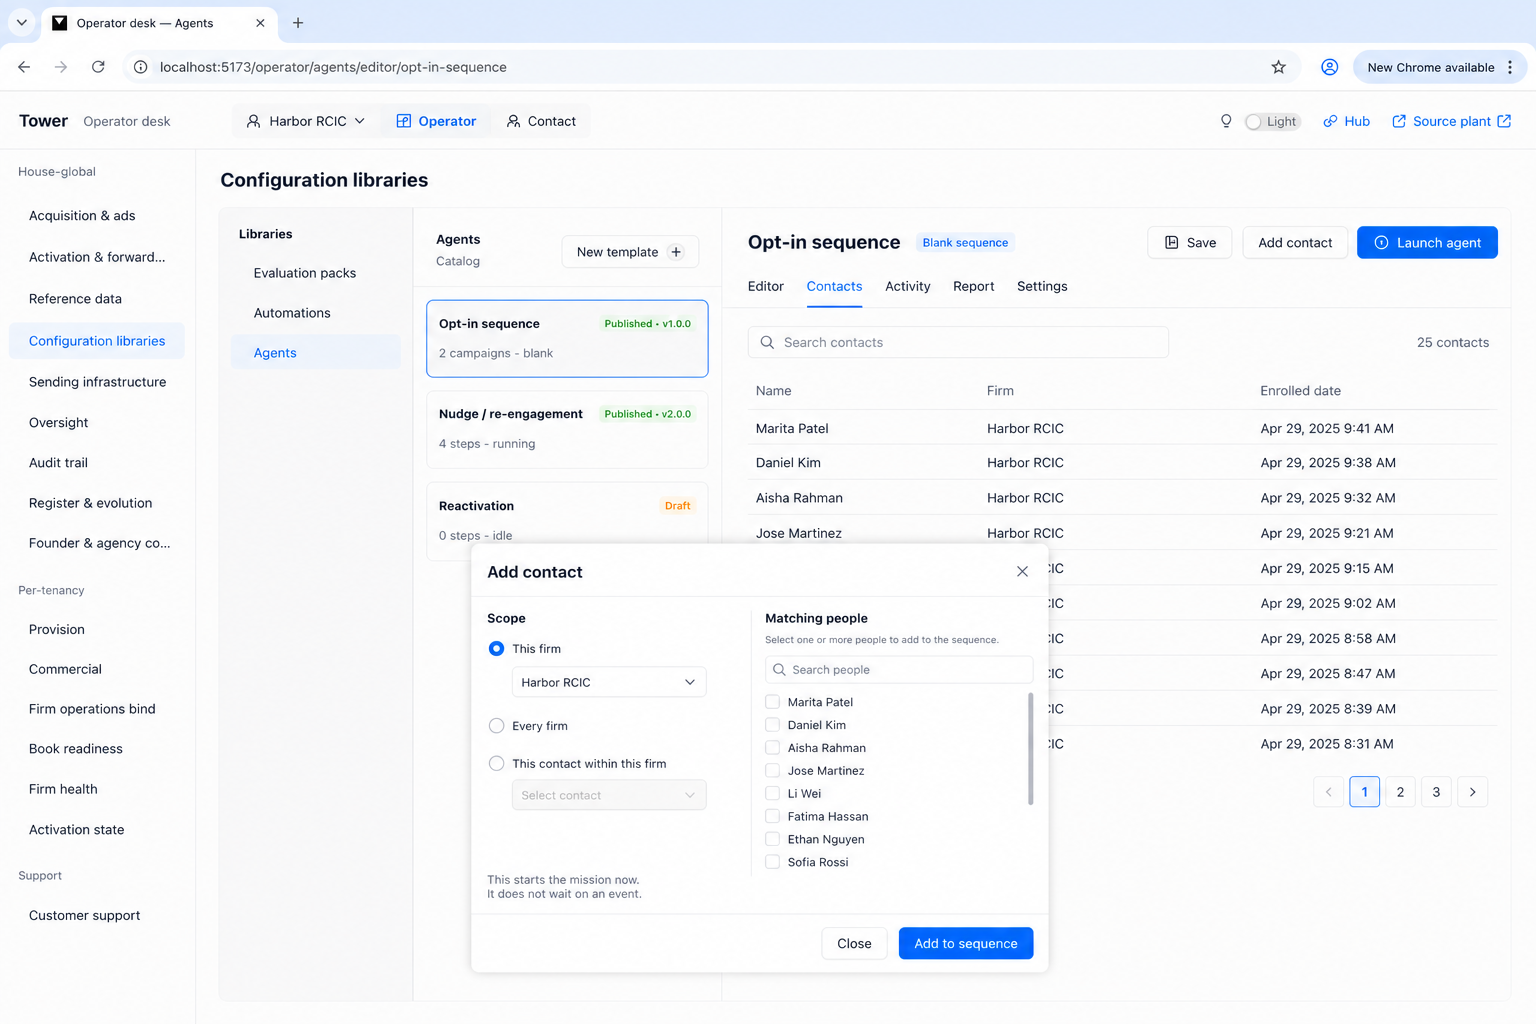
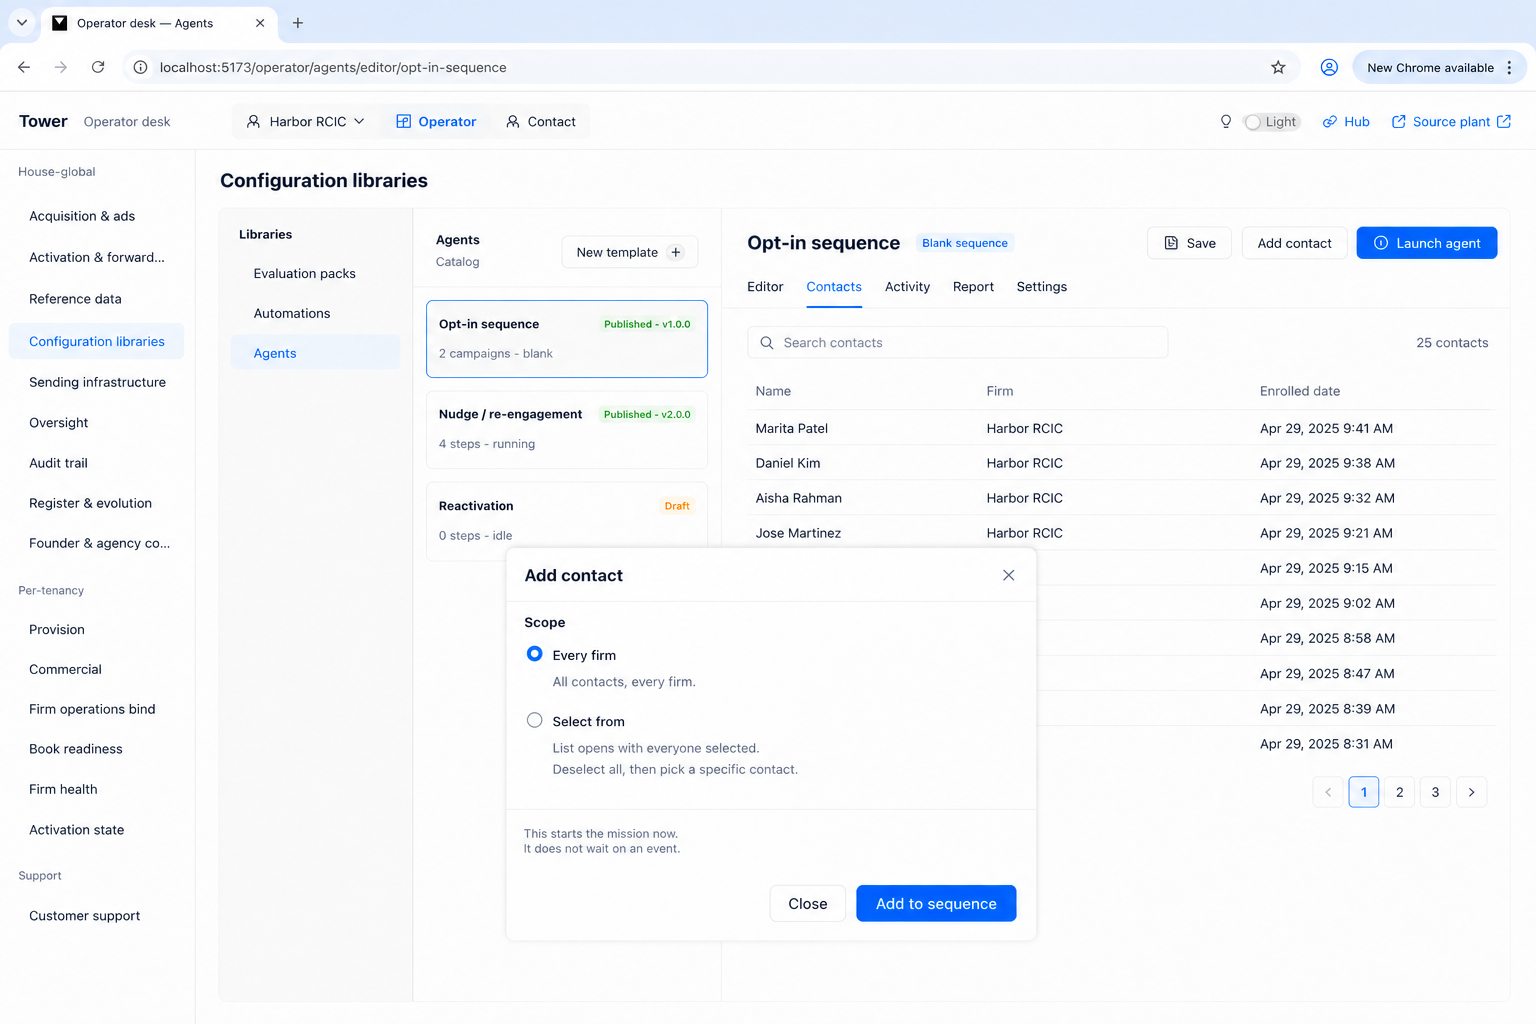
docs: Add contact is Every firm or Select from; A14 sequences are radios
No third scope radio. Select from pre-selects everyone; deselect to pick
one. Sequence pick has no chevron — select agent is the whole sequence.

diff --git a/docs/register/AGENTS-UI-BLUEPRINT.md b/docs/register/AGENTS-UI-BLUEPRINT.md
@@ -25,7 +25,7 @@ These ten files are **canon**. Later plates revise earlier ones only where the t
 | **C5b** | [`C5b-content-toggle-closeup.png`](./agents-blueprint/C5b-content-toggle-closeup.png) | Same as C5, close-up of the three expanded composers. | 19:45 richness | companion to C5 |
 | **C6** | [`C6-agents-settings-global.png`](./agents-blueprint/C6-agents-settings-global.png) | **Agents Settings** = global defaults. Founder: locked, perfect. | 19:30 two Settings surfaces | — |
 | **C7** | [`C7-sequence-settings.png`](./agents-blueprint/C7-sequence-settings.png) | **Sequence Settings** = this sequence; inherit unless override. Founder: locked, perfect. | 19:30 | — |
-| **C8** | [`C8-sequence-contacts-enroll.png`](./agents-blueprint/C8-sequence-contacts-enroll.png) | This sequence → **Contacts**. Displays enrolled. **Add contact.** Scope: this firm / every firm / this contact. Starts the mission now — not Publish, not waiting on an event. | 00:02 | — |
+| **C8** | [`C8-sequence-contacts-enroll.png`](./agents-blueprint/C8-sequence-contacts-enroll.png) | This sequence → **Contacts**. Displays enrolled. **Add contact** in the header. Scope: **Every firm** (default) or **Select from** (all selected; deselect to pick one). Starts the mission now. | 00:02 · 01:01 scope | — |
 
 ### Discarded (do not spec, do not hand to SA as face)
 
@@ -65,7 +65,7 @@ Not a test script. The path that produces each plate.
 | Agents module → Settings | **C6** global. |
 | This sequence → Settings | **C7** this sequence. Inherit from C6 unless Override is on. |
 | This sequence → **Contacts** | Enrolled list (C8). Empty until someone is on it. |
-| This sequence header → **Add contact** | Always in the top row with Save / Launch. Opens the filter modal. Scope: this firm / every firm / this contact. Add to sequence. Starts the mission now. |
+| This sequence header → **Add contact** | Always in the top row with Save / Launch. Opens the modal. **Every firm** (default, top) or **Select from** (bottom; everyone selected; deselect to pick one). Add to sequence. Starts the mission now. |
 
 Fallback if a control is not overridden: campaign → sequence Settings → Agents Settings (CSS).
 
@@ -232,13 +232,12 @@ Fallback if a control is not overridden: campaign → sequence Settings → Agen
 - Tabs: Editor · **Contacts** (on) · Activity · Report · Settings.
 - Enrolled list in the workspace (names, firm, enrolled date).
 - **Add contact** (header) opens a modal.
-- Scope radios: **This firm** (firm picker) · **Every firm** · **This contact within this firm**.
-- Matching people, checkboxes, **Add to sequence**.
+- Scope radios, two only: **Every firm** (top, selected by default) · **Select from** (bottom). Select from opens the list with **everyone already selected**; deselect to pick a specific contact. That is the old “this contact” option. No third radio.
 - Caption: “This starts the mission now. It does not wait on an event.”
 
-**Controls:** pick scope · check people · Add to sequence.
+**Controls:** Every firm, or Select from then deselect/pick · Add to sequence.
 
-**Not this plate:** Publish-to-enroll. The engagement chart. Automations assign (A14). A full filter catalog — only the three named scopes.
+**Not this plate:** Publish-to-enroll. The engagement chart. Automations assign (A14). A third scope radio. A full filter catalog.
 
 ---
 
@@ -255,7 +254,7 @@ This is the under-documented remainder **before** systems. Not for SA to invent 
 | Mix objective types in one sequence | Not drawn. |
 | Campaign-level Settings modal | Not placed. Campaign has Override this + sequencing on the node. |
 | Call vs Form on the **machine** | Face C5 shows Call (ElevenLabs). C4/C6/C7 still show Form. SA does not mint call from the picture. |
-| Add-contact filters beyond the three named scopes | C8 names this firm / every firm / this contact. Do not invent the rest. |
+| Add-contact filters beyond Every firm / Select from | C8 names those two. Do not invent the rest. |
 
 ---
 

diff --git a/docs/register/AGENTS-FACE.md b/docs/register/AGENTS-FACE.md
@@ -94,7 +94,7 @@
 11. **Objective ≠ sequence.** Objective = **one campaign**. Sequences have templates; objectives have templates. You do not put “opt-in” in the objective picker.
 12. **First thing on a campaign is the objective.** Hub Automations: trigger node → **Add configuration**. Same seat, not the same module — do not import Automations triggers onto this canvas.
 13. **Untemplated objective is a binary event** (word “event” may change). One yes/no: everyone enrolled is campaigned to do **this one thing**. Happened or it didn’t. Then you name it. Templated objective populates the rest of that campaign.
-14. **Enroll lives on this sequence’s Contacts.** That model **displays who is enrolled**. **Add contact** is the hand door, and it lives in the **sequence header** — same row as Save / Launch agent — always there, not inside the Contacts tab body. Scope named: **this firm / every firm / this contact within this firm**. **Not Publish.** Automations enroll is the other door (on an event). Agents enroll **starts the mission now** — it is not waiting on a current event.
+14. **Enroll lives on this sequence’s Contacts.** That model **displays who is enrolled**. **Add contact** is the hand door, and it lives in the **sequence header** — same row as Save / Launch agent — always there, not inside the Contacts tab body. Same Add-contact grain also lives in **Automations and events**. Scope is **two**, not three: **Every firm** (top, default) or **Select from** (bottom — list opens with everyone selected; deselect to pick a specific contact). No separate “this firm” / “this contact” radios. **Not Publish.** Automations enroll is the other door (on an event). Agents enroll **starts the mission now** — it is not waiting on a current event.
 15. **Activity / engagement chart ≠ lineage query.** The engagement chart is a **tree of outreach**. It does **not** connect left to the trigger or event that created the agent or assigned it to the objective. Keep that chart pristine. Who created / path / completion / time is **queryable** (Automations law 29) — a different thing.
 
 ---
@@ -130,7 +130,8 @@ SEQUENCE TEMPLATE  (blank canvas — opt-in / re-engagement / reactivation)
 │    displays enrolled
 │    Add contact lives in the sequence HEADER (same row as Save / Launch)
 │         not inside the Contacts tab body
-│    scope: this firm / every firm / this contact
+│    scope: Every firm (default) · Select from (all selected; deselect to pick one)
+│    same grain in Automations / events
 │    starts the mission now (not an event, not Publish)
 │
 └─ next Campaign  (only if prior campaign objective met → qualify)
@@ -314,4 +315,4 @@ Per-campaign attempt rules stay **on the campaign**. They do not appear as a str
 4. Call via ElevenLabs — face only for now; machine still form.
 5. Where campaign-level rule overrides sit besides attempt-on-campaign (sequencing already on the campaign).
 6. Settings images locked canonical.
-7. Filter catalog on Add contact beyond the three named scopes — brainstorm later; do not fill.
+7. Filter catalog on Add contact beyond **Every firm** / **Select from** — brainstorm later; do not fill.

diff --git a/docs/register/AUTOMATIONS-FACE.md b/docs/register/AUTOMATIONS-FACE.md
@@ -129,7 +129,7 @@
 28. **No special return.** The return **is** an event. **All objectives are events.** The write-back **is** the event; the event happening **is** the write-back. It is detected across the app / in the database. It is not lost. Loop 1 (23:07) is settled this way — not a separate return wire.
 29. **Lineage is queryable at the minimum.** What created the objective (agent-created or hand-created). The path that agent took from that creation to completion. The completion event. Time it took. Map it correctly. That is querying, not a new module. If it is not queryable, the loop is not real.
 30. **Campaign failure is an event.** Global and local apply (all campaign failures vs **this** campaign). Then an **in-app action**: create a record — even as simple as **ascribe a tag**. Named example: the subscription bell (subscribed / not) **is a tag** created in Automations. Opt-out / unsubscribe is also an event; it assigns that tag. Campaign fails → ascribes that tag. This is one of the first in-app actions named. Do not invent the rest of the action catalog.
-31. **Automations does not create agents.** Create the agent in **Agents**, then **assign**. On the Agents action there are two choices: **assign to an existing sequence**, or **create from a template**. No third choice: author a new agent here. Can evolve later — not now. Plate **A14**. A8 stays prior for select-agent = whole sequence. A12 stays the form. Global/local of the event is also **dependent on which contacts are enrolled**. Automations still does **not** start a mission right now — that is Agents (C8).
+31. **Automations does not create agents.** Create the agent in **Agents**, then **assign**. On the Agents action there are two choices: **assign to an existing sequence**, or **create from a template**. No third choice: author a new agent here. Can evolve later — not now. Plate **A14**. A8 stays prior for select-agent = whole sequence. A12 stays the form. The sequence pick (Opt-in / Re-engagement / Reactivation) is a **radio**. There is **nothing further** — no chevron, no extra configuration. Add-contact scope is the same two as C8 (**Every firm** default, or **Select from**) and also lives on **events**. Global/local of the event is also **dependent on which contacts are enrolled**. Automations still does **not** start a mission right now — that is Agents (C8).
 
 ---
 

diff --git a/docs/register/PHASE-TWO-LOG.md b/docs/register/PHASE-TWO-LOG.md
@@ -2,7 +2,7 @@
 
 **Purpose:** Running log so a new agent can start where we stopped. Thesis stays in [`PHASE-TWO.md`](./PHASE-TWO.md). Nothing is more important than this file staying current.
 
-**Current (read first, then the newest stamp at the bottom):** Agents **flagship** = 2026-08-15 15:43 UTC. **00:02:** leftover **2** and **6** answered. **00:51:** C8 · A14 rebuilt on the validated chrome. Add contact lives in the sequence header. Still left: **3** send; lineage; book-in door. Do not plant.
+**Current (read first, then the newest stamp at the bottom):** Agents **flagship** = 2026-08-15 15:43 UTC. **01:01:** Add contact scope is **Every firm** (default) or **Select from** (all selected; deselect to pick one). A14 sequence pick is a **radio** — no chevron, nothing further. Still left: **3** send; lineage; book-in door. Do not plant.
 
 **How we maintain this log**
 
@@ -714,6 +714,24 @@ Flag 15:43 untouched.
 **Plates rebuilt** (same filenames, same law; chrome from C3/C6/C7 and A8/A7/A1). Do not regenerate C1–C7 or A1–A13.
 
 **Do not:** plant; invent new chrome; overwrite 15:43.
+
+Flag 15:43 untouched.
+
+---
+
+## 2026-08-16 01:01 UTC — Add contact is Every firm or Select from; sequence pick is a radio
+
+**Why:** UI note for when we build. Founder: Add contact also lives in Automations and events. You do **not** need three selections (this firm / every firm / a contact in every firm).
+
+**Scope (two, not three):**
+- **Every firm** — first, at the top, **selected by default**.
+- **Select from** — at the bottom. Click it: **all those contacts are already selected**. Deselect all, then pick a specific contact — that is the old “this contact” option. No third radio.
+
+**A14 sequence rows:** Opt-in / Re-engagement / Reactivation looked like there was more because of the **arrow**. Founder: you put that arrow when there is more configuration. **There is not more.** Select agent = the whole sequence (law 9). Those rows are **radios**. No chevron.
+
+**Plates rebuilt** (same filenames, same chrome). Do not regenerate C1–C7 or A1–A13.
+
+**Do not:** plant; invent a third scope; put a chevron on a radio; overwrite 15:43.
 
 Flag 15:43 untouched.
 

diff --git a/docs/register/AUTOMATIONS-SA-PACKAGE.md b/docs/register/AUTOMATIONS-SA-PACKAGE.md
@@ -51,7 +51,7 @@ Hub node kinds already named in code (`WorkflowNodeType`): `trigger` | `constant
 | **A11** (canon Output) | **Required data** as a **listing of field rows** on Output. Catalog fields only. Self-reportable → form. Document-dependent → never a form. 21:36: **not stood up**. |
 | **A10** (prior, **diagram**) | Output classes are a **lattice**. Missing class: required data. A condition on a class forks actions on the same data. **Not a screen.** |
 | **A13** (canon **diagram**) | Same lattice; required data is the **listing** class. If listing not empty → create form from those rows. **Not a screen.** Founder 22:17: different kind of picture. The DAG fork is the **If node after the rule**, which calls from previous results — Hub has it; **no Ant plate**. |
-| **A14** (later, canon assign) | Assign to an **existing** sequence, or **create from a template**. You do **not** create an agent here. A8 still holds select-agent = whole sequence. A12 still holds the form. |
+| **A14** (later, canon assign) | Assign to an **existing** sequence, or **create from a template**. You do **not** create an agent here. Sequence pick is a **radio** — nothing further, no chevron. A8 still holds select-agent = whole sequence. A12 still holds the form. |
 
 **Under-specified remainder** (blueprint § “Under-specified”): If/condition node after the rule (no Ant plate); constants as a canvas node; full operations catalog; full exit points; form-as-own-node vs embedded (lean embedded); remaining output classes; in-system actions besides the one named (**ascribe a tag** on campaign failure / unsubscribe); word “event”; Ant Rule GUI missing; required-data listing; form completion / campaign failure / opt-out as events; **global vs local** (not Settings); **lineage queryable** (who created the objective — agent vs hand — path, completion, time). Hub is the advanced **module plant**, not the app — do not ascribe Hub screens as the product. Name whether the machine already has a place, or Story is silent. Do not invent UI. Do not mint tables.
 

diff --git a/docs/register/AGENTS-SA-PACKAGE.md b/docs/register/AGENTS-SA-PACKAGE.md
@@ -44,7 +44,7 @@ Read the plate in [`AGENTS-UI-BLUEPRINT.md`](./AGENTS-UI-BLUEPRINT.md) (image + 
 | **C5 / C5b** | Override content is a **toggle** inside the channel; on → node expands into that medium’s composer. Text, email, **call (ElevenLabs)**. Channel rules still a wire. Attempt rules are **not** here. |
 | **C6** | Agents Settings = **global** defaults (attempt, channel/escalation, content, sequencing). Locked on the face. |
 | **C7** | Sequence Settings = **this sequence**; inherit unless Override. Per-campaign attempt rules live **on the campaign**, not in this modal. Locked on the face. |
-| **C8** (later) | This sequence → **Contacts**. Displays enrolled. **Add contact.** Scope: this firm / every firm / this contact. Starts the mission now. Not Publish. Ant tab exists; Add contact does not. |
+| **C8** (later) | This sequence → **Contacts**. Displays enrolled. **Add contact** in the header. Scope: **Every firm** (default) or **Select from** (all selected; deselect to pick one). Starts the mission now. Not Publish. Ant tab exists; Add contact does not. |
 
 **Under-specified remainder** (blueprint § “specified but not on a canon plate”): attempt rules drawn on the campaign card; attempt-N content variation; additional opt-in objectives; word “event”; campaign Settings modal; Call vs Form on the machine. Name whether the machine already has a place, or Story is silent. Do not invent UI for these.
 

diff --git a/docs/register/AUTOMATIONS-UI-BLUEPRINT.md b/docs/register/AUTOMATIONS-UI-BLUEPRINT.md
@@ -323,7 +323,7 @@ Fallback: if Ant has no Rule GUI (it does not), the picture is still the face. H
 - Kind: Agents.
 - Line: “You do not create an agent here. Create the agent in Agents, then assign.”
 - Two cards: **Assign to an existing sequence** (put them on one you already authored) · **Create from a template** (new copy from a sequence template, then put them on that).
-- Same three names on both sides (Opt-in / Re-engagement / Reactivation) — left tagged Existing, right tagged Sequence template.
+- Same three names on both sides (Opt-in / Re-engagement / Reactivation) — left tagged Existing, right tagged Sequence template. Each row is a **radio**. One selected. **No chevron / arrow.** There is nothing further after you pick the sequence (select agent = the whole sequence).
 - Footer: “Not a third option: author a new agent in this module.”
 
 **Why this does what we wanted:** the copy-vs-assign choice is obvious on the glass. It is not a third authoring place.
